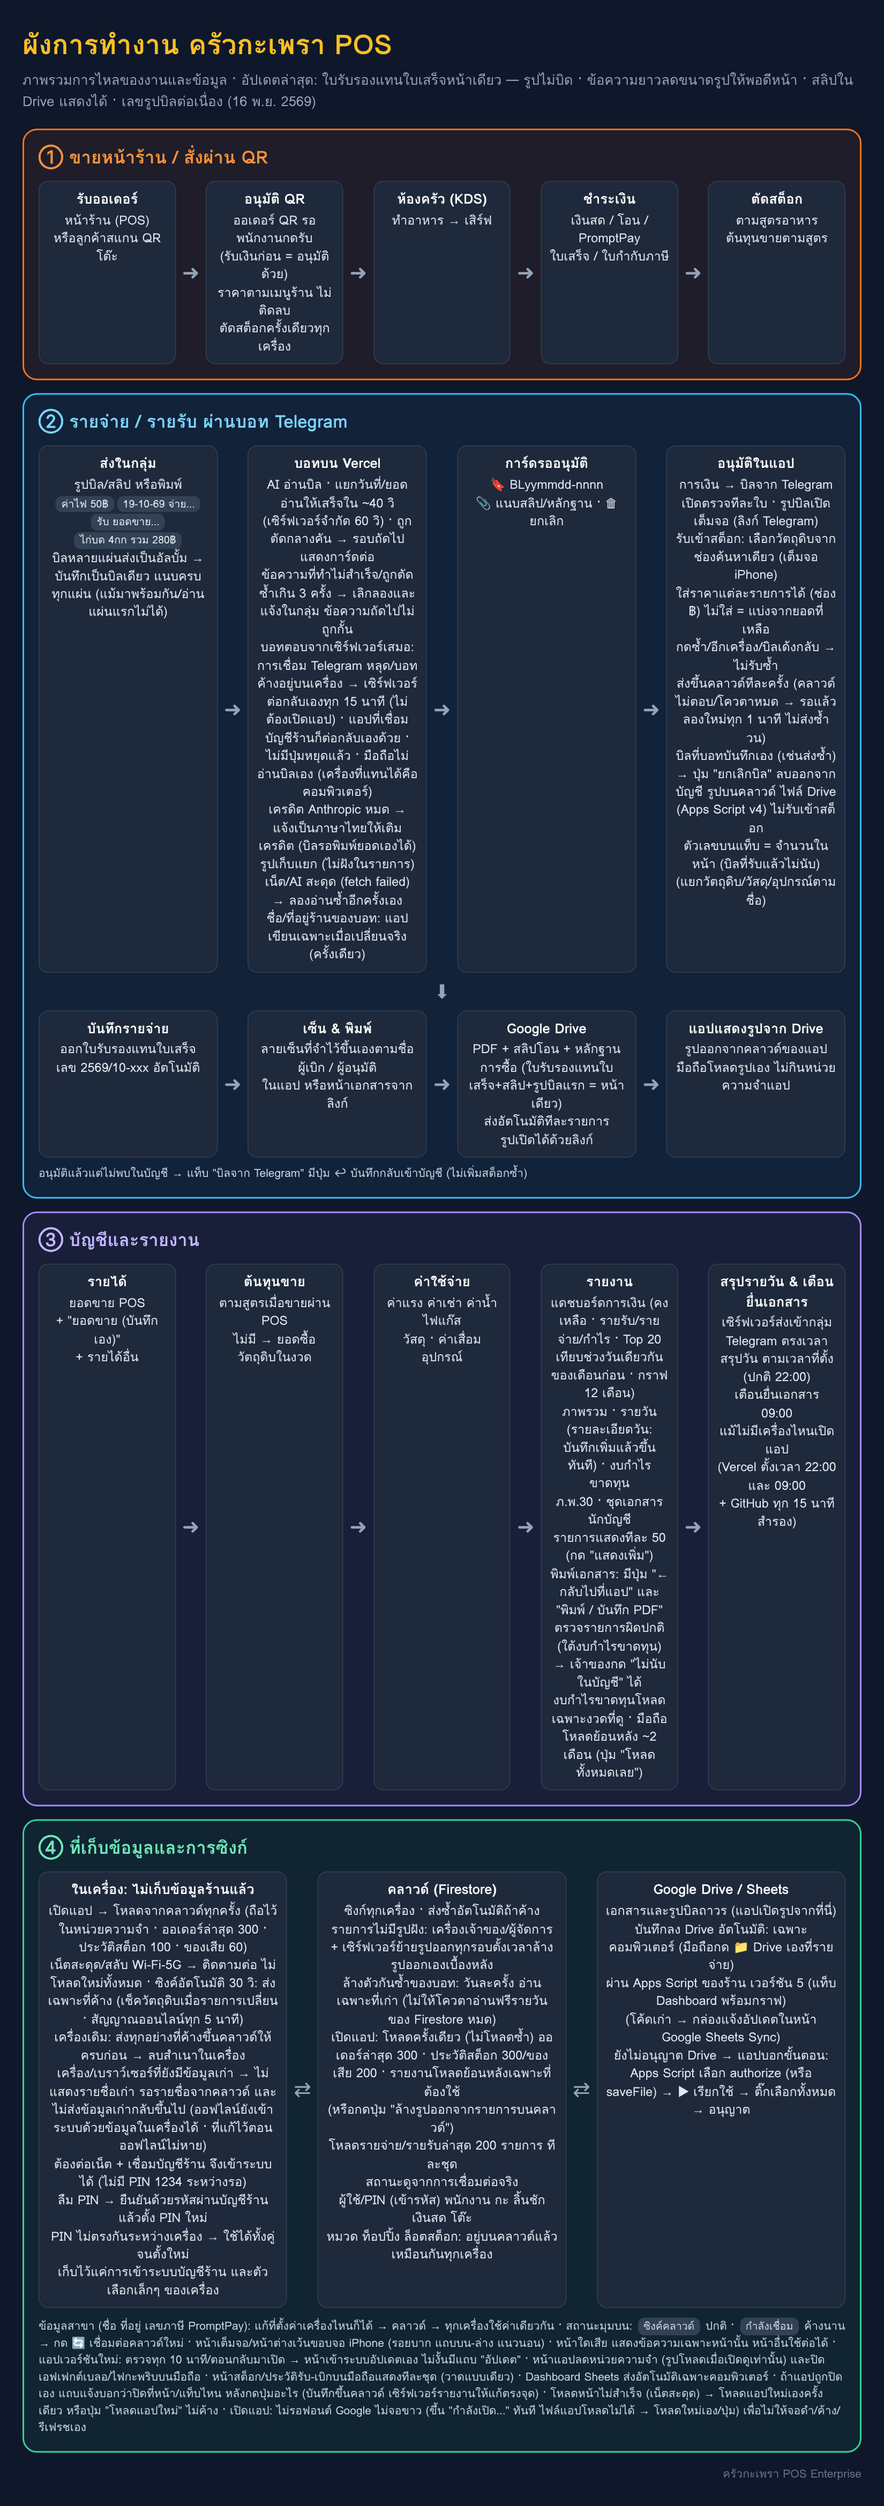
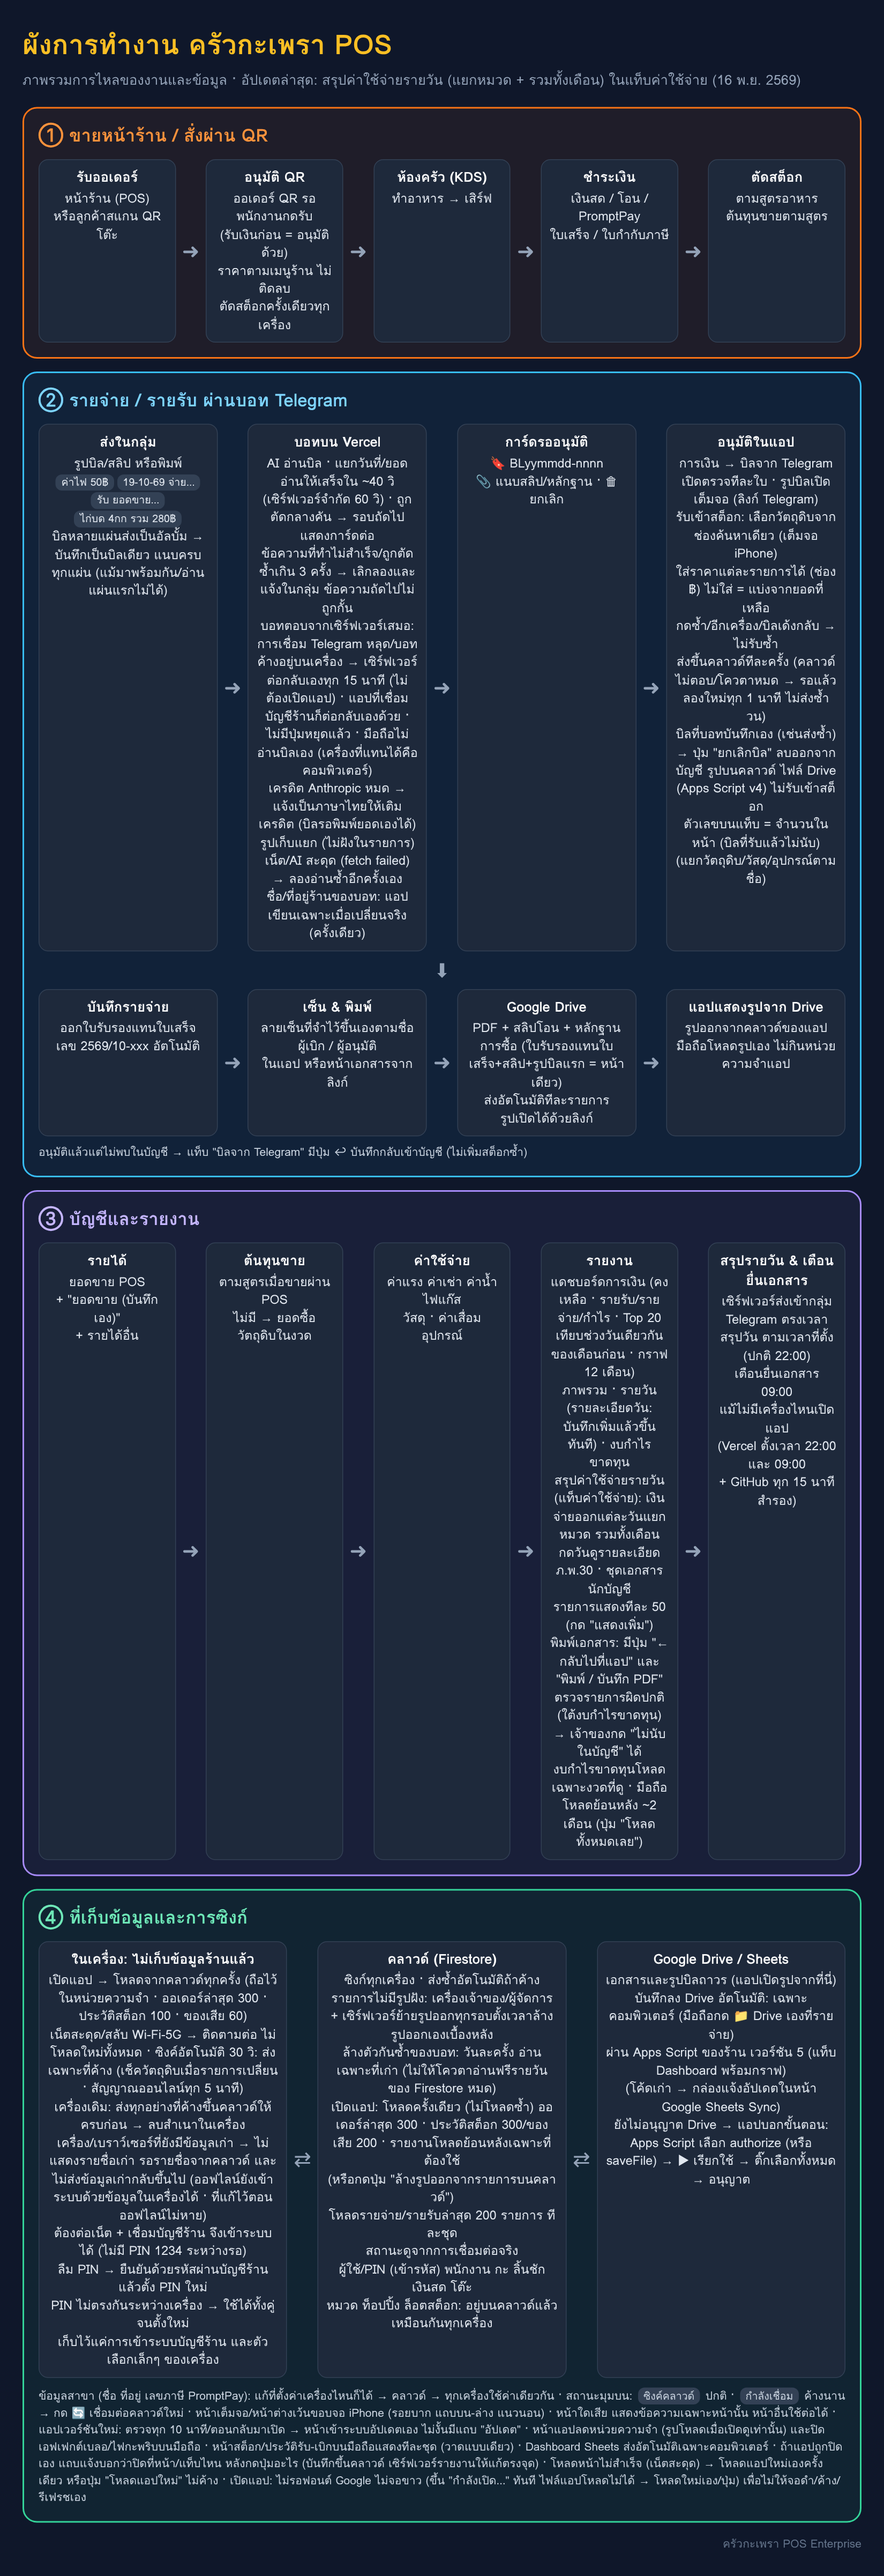
Daily expense summary in the expenses tab
Every day of the month with an expense: what was paid out that day by
category (ingredients and equipment included), its number of entries and
total, and the month's totals; a day opens its detail. The expense book's
header showed a fixed old tax ID: it shows the shop's own now.

Claude-Session: https://claude.ai/code/session_01Gq3UvYW4wv3hsVCXoh5wxy

diff --git a/docs/workflow/flow.html b/docs/workflow/flow.html
@@ -17,7 +17,7 @@ h1{margin:0 0 4px;font-size:34px;color:#fbbf24}.sub{color:#94a3b8;font-size:17px
 .foot{color:#64748b;font-size:14px;margin-top:6px;text-align:right}
 </style></head><body>
 <h1>ผังการทำงาน ครัวกะเพรา POS</h1>
-<div class="sub">ภาพรวมการไหลของงานและข้อมูล · อัปเดตล่าสุด: ใบรับรองแทนใบเสร็จหน้าเดียว — รูปไม่บิด · ข้อความยาวลดขนาดรูปให้พอดีหน้า · สลิปใน Drive แสดงได้ · เลขรูปบิลต่อเนื่อง (16 พ.ย. 2569)</div>
+<div class="sub">ภาพรวมการไหลของงานและข้อมูล · อัปเดตล่าสุด: สรุปค่าใช้จ่ายรายวัน (แยกหมวด + รวมทั้งเดือน) ในแท็บค่าใช้จ่าย (16 พ.ย. 2569)</div>
 
 <div class="lane pos"><h2>① ขายหน้าร้าน / สั่งผ่าน QR</h2>
 <div class="row">
@@ -50,7 +50,7 @@ h1{margin:0 0 4px;font-size:34px;color:#fbbf24}.sub{color:#94a3b8;font-size:17px
 <div class="box"><b>รายได้</b>ยอดขาย POS<br>+ "ยอดขาย (บันทึกเอง)"<br>+ รายได้อื่น</div><div class="ar">➜</div>
 <div class="box"><b>ต้นทุนขาย</b>ตามสูตรเมื่อขายผ่าน POS<br>ไม่มี → ยอดซื้อวัตถุดิบในงวด</div><div class="ar">➜</div>
 <div class="box"><b>ค่าใช้จ่าย</b>ค่าแรง ค่าเช่า ค่าน้ำไฟแก๊ส<br>วัสดุ · ค่าเสื่อมอุปกรณ์</div><div class="ar">➜</div>
-<div class="box"><b>รายงาน</b>แดชบอร์ดการเงิน (คงเหลือ · รายรับ/รายจ่าย/กำไร · Top 20 เทียบช่วงวันเดียวกันของเดือนก่อน · กราฟ 12 เดือน)<br>ภาพรวม · รายวัน (รายละเอียดวัน: บันทึกเพิ่มแล้วขึ้นทันที) · งบกำไรขาดทุน<br>ภ.พ.30 · ชุดเอกสารนักบัญชี<br>รายการแสดงทีละ 50 (กด "แสดงเพิ่ม")<br>พิมพ์เอกสาร: มีปุ่ม "← กลับไปที่แอป" และ "พิมพ์ / บันทึก PDF"<br>ตรวจรายการผิดปกติ (ใต้งบกำไรขาดทุน)<br>→ เจ้าของกด "ไม่นับในบัญชี" ได้<br>งบกำไรขาดทุนโหลดเฉพาะงวดที่ดู · มือถือโหลดย้อนหลัง ~2 เดือน (ปุ่ม "โหลดทั้งหมดเลย")</div><div class="ar">➜</div>
+<div class="box"><b>รายงาน</b>แดชบอร์ดการเงิน (คงเหลือ · รายรับ/รายจ่าย/กำไร · Top 20 เทียบช่วงวันเดียวกันของเดือนก่อน · กราฟ 12 เดือน)<br>ภาพรวม · รายวัน (รายละเอียดวัน: บันทึกเพิ่มแล้วขึ้นทันที) · งบกำไรขาดทุน<br>สรุปค่าใช้จ่ายรายวัน (แท็บค่าใช้จ่าย): เงินจ่ายออกแต่ละวันแยกหมวด รวมทั้งเดือน กดวันดูรายละเอียด<br>ภ.พ.30 · ชุดเอกสารนักบัญชี<br>รายการแสดงทีละ 50 (กด "แสดงเพิ่ม")<br>พิมพ์เอกสาร: มีปุ่ม "← กลับไปที่แอป" และ "พิมพ์ / บันทึก PDF"<br>ตรวจรายการผิดปกติ (ใต้งบกำไรขาดทุน)<br>→ เจ้าของกด "ไม่นับในบัญชี" ได้<br>งบกำไรขาดทุนโหลดเฉพาะงวดที่ดู · มือถือโหลดย้อนหลัง ~2 เดือน (ปุ่ม "โหลดทั้งหมดเลย")</div><div class="ar">➜</div>
 <div class="box"><b>สรุปรายวัน &amp; เตือนยื่นเอกสาร</b>เซิร์ฟเวอร์ส่งเข้ากลุ่ม Telegram ตรงเวลา<br>สรุปวัน ตามเวลาที่ตั้ง (ปกติ 22:00)<br>เตือนยื่นเอกสาร 09:00<br>แม้ไม่มีเครื่องไหนเปิดแอป<br>(Vercel ตั้งเวลา 22:00 และ 09:00<br>+ GitHub ทุก 15 นาที สำรอง)</div>
 </div></div>
 

diff --git a/src/components/accounting/DailyExpenseSummary.tsx b/src/components/accounting/DailyExpenseSummary.tsx
@@ -1,0 +1,73 @@
+import React, { useMemo } from 'react';
+import { CalendarDays } from 'lucide-react';
+import type { Expense, ExpenseCategory } from '../../types';
+import { money } from '../../utils/accounting';
+import { dailyExpenseSummary } from '../../utils/dailyExpenses';
+
+/**
+ * สรุปค่าใช้จ่ายรายวัน: every day of the month with an expense, the money paid out that day by
+ * category (ingredients and equipment included: what was actually paid), and the month's total.
+ * A day opens its full detail.
+ */
+export const DailyExpenseSummary: React.FC<{
+  expenses: Expense[];
+  month: string;
+  labels: Record<ExpenseCategory, string>;
+  onOpenDay: (date: string) => void;
+}> = ({ expenses, month, labels, onOpenDay }) => {
+  const s = useMemo(() => dailyExpenseSummary(expenses), [expenses]);
+  const dayLabel = (d: string) => new Date(`${d}T00:00:00`).toLocaleDateString('th-TH', { weekday: 'short', day: 'numeric', month: 'short' });
+  return (
+    <div className="bg-slate-900 border border-slate-800 rounded-2xl p-4 space-y-3">
+      <div className="flex items-center justify-between gap-2">
+        <h3 className="font-bold text-slate-100 text-sm flex items-center gap-2">
+          <CalendarDays className="w-4 h-4 text-rose-400" /> สรุปค่าใช้จ่ายรายวัน ({month})
+        </h3>
+        <span className="font-mono font-bold text-rose-300 text-sm">฿{money(s.total)}</span>
+      </div>
+      <p className="text-[11px] text-slate-500">เงินที่จ่ายออกจริงแต่ละวัน รวมซื้อวัตถุดิบและอุปกรณ์ · กดวันเพื่อดูรายละเอียด</p>
+      {s.days.length === 0 ? (
+        <div className="p-3 rounded-xl bg-slate-950 text-center text-xs text-slate-500">ยังไม่มีค่าใช้จ่ายในเดือนนี้</div>
+      ) : (
+        <div className="overflow-x-auto -mx-1 px-1">
+          <table className="w-full text-xs min-w-[520px]">
+            <thead>
+              <tr className="text-slate-400 border-b border-slate-800">
+                <th className="text-left py-2 pr-2 font-semibold">วันที่</th>
+                {s.categories.map(c => (
+                  <th key={c} className="text-right py-2 px-2 font-semibold whitespace-nowrap">{labels[c] || c}</th>
+                ))}
+                <th className="text-right py-2 pl-2 font-semibold">รวม</th>
+              </tr>
+            </thead>
+            <tbody>
+              {s.days.map(d => (
+                <tr key={d.date} className="border-b border-slate-800/60">
+                  <td className="py-2 pr-2">
+                    <button type="button" onClick={() => onOpenDay(d.date)} className="text-left text-sky-300 underline-offset-2 hover:underline min-h-[36px]">
+                      {dayLabel(d.date)}
+                      <span className="block text-[10px] text-slate-500">{d.count} รายการ</span>
+                    </button>
+                  </td>
+                  {s.categories.map(c => (
+                    <td key={c} className="text-right py-2 px-2 font-mono text-slate-300">{d.byCategory[c] ? money(d.byCategory[c]) : '-'}</td>
+                  ))}
+                  <td className="text-right py-2 pl-2 font-mono font-bold text-rose-300">{money(d.total)}</td>
+                </tr>
+              ))}
+            </tbody>
+            <tfoot>
+              <tr className="font-bold">
+                <td className="py-2 pr-2 text-slate-200">รวมทั้งเดือน</td>
+                {s.categories.map(c => (
+                  <td key={c} className="text-right py-2 px-2 font-mono text-slate-200">{money(s.byCategory[c] || 0)}</td>
+                ))}
+                <td className="text-right py-2 pl-2 font-mono text-rose-300">{money(s.total)}</td>
+              </tr>
+            </tfoot>
+          </table>
+        </div>
+      )}
+    </div>
+  );
+};

diff --git a/src/components/accounting/AccountingView.tsx b/src/components/accounting/AccountingView.tsx
@@ -2,6 +2,9 @@ import React, { useState, useMemo, useRef, useEffect } from 'react';
 import { splitBillCost } from '../../utils/stockIntake';
 import { LedgerBooks, LedgerTab } from './LedgerBooks';
 import { HistoryHeldNotice } from '../common/HistoryHeldNotice';
+import { DailyExpenseSummary } from './DailyExpenseSummary';
+import { sellerInfo } from '../../utils/seller';
+import { formatThaiId } from '../../utils/withholding';
 import { setRunDetail } from '../../utils/bootGuard';
 import { profitAndLoss, type PaidFrom } from '../../utils/ledger';
 import { useLedger } from '../../hooks/useLedger';
@@ -2820,6 +2823,17 @@ export const AccountingView: React.FC = () => {
               </div>
             )}
 
+            {/* Money paid out each day of the month, by category */}
+            <DailyExpenseSummary
+              expenses={selectedBranchExpenses}
+              month={selectedMonth}
+              labels={categoryLabels}
+              onOpenDay={date => {
+                setSelectedDetailDate(date);
+                setIsDayDetailModalOpen(true);
+              }}
+            />
+
             {/* Formal Report Header Box */}
             <div className="bg-slate-900 border border-slate-800 rounded-2xl p-4 sm:p-5 shadow-xl space-y-4">
               <div className="flex flex-col md:flex-row md:items-center justify-between gap-3 border-b border-slate-800 pb-3.5">
@@ -2835,7 +2849,7 @@ export const AccountingView: React.FC = () => {
                     <span>รายงานสรุปสมุดบัญชีรายจ่าย & ภาษีซื้อประจำเดือน ({selectedMonth})</span>
                   </h2>
                   <p className="text-xs text-slate-400">
-                    เลขประจำตัวผู้เสียภาษี: 0-1055-66012-99-0 | รอบบัญชี: {selectedMonth}
+                    เลขประจำตัวผู้เสียภาษี: {formatThaiId(sellerInfo(settings, currentBranch).taxId || '') || '-'} | รอบบัญชี: {selectedMonth}
                   </p>
                 </div>
 

diff --git a/src/utils/dailyExpenses.ts b/src/utils/dailyExpenses.ts
@@ -1,0 +1,46 @@
+import type { Expense, ExpenseCategory } from '../types';
+import { round2 } from './accounting';
+
+export interface DailyExpenseDay {
+  date: string;
+  count: number;
+  total: number;
+  byCategory: Partial<Record<ExpenseCategory, number>>;
+}
+
+/** The order the categories are shown in (only those used appear) */
+const ORDER: ExpenseCategory[] = ['raw_material', 'supplies', 'salary', 'rent', 'utilities', 'equipment', 'marketing', 'other'];
+
+/** Money paid out each day (the amount paid, VAT included) by category, newest day first */
+export function dailyExpenseSummary(expenses: Expense[]): {
+  days: DailyExpenseDay[];
+  categories: ExpenseCategory[];
+  byCategory: Partial<Record<ExpenseCategory, number>>;
+  total: number;
+} {
+  const byDay = new Map<string, DailyExpenseDay>();
+  const byCategory: Partial<Record<ExpenseCategory, number>> = {};
+  let total = 0;
+  for (const e of expenses) {
+    const date = (e.date || '').slice(0, 10);
+    if (!/^\d{4}-\d{2}-\d{2}$/.test(date)) continue;
+    const amount = Number(e.amount) || 0;
+    const cat = (ORDER.includes(e.category) ? e.category : 'other') as ExpenseCategory;
+    const day = byDay.get(date) || { date, count: 0, total: 0, byCategory: {} };
+    day.count++;
+    day.total += amount;
+    day.byCategory[cat] = (day.byCategory[cat] || 0) + amount;
+    byDay.set(date, day);
+    byCategory[cat] = (byCategory[cat] || 0) + amount;
+    total += amount;
+  }
+  const days = [...byDay.values()]
+    .map(d => ({ ...d, total: round2(d.total), byCategory: Object.fromEntries(Object.entries(d.byCategory).map(([k, v]) => [k, round2(v || 0)])) }))
+    .sort((a, b) => b.date.localeCompare(a.date));
+  return {
+    days,
+    categories: ORDER.filter(c => byCategory[c]),
+    byCategory: Object.fromEntries(Object.entries(byCategory).map(([k, v]) => [k, round2(v || 0)])),
+    total: round2(total)
+  };
+}

diff --git a/src/utils/__tests__/dailyExpenses.test.ts b/src/utils/__tests__/dailyExpenses.test.ts
@@ -1,0 +1,14 @@
+import { describe, expect, it } from 'vitest';
+import { dailyExpenseSummary } from '../dailyExpenses';
+
+const e = (date: string, category: any, amount: number) => ({ id: `${date}-${amount}`, date, category, amount, title: 'x' }) as any;
+
+describe('daily expense summary', () => {
+  it('adds up each day by category, newest first, with the month total', () => {
+    const s = dailyExpenseSummary([e('2026-11-15', 'raw_material', 509), e('2026-11-15', 'supplies', 1207), e('2026-11-15', 'raw_material', 350), e('2026-11-16', 'salary', 400.5), e('2026-11-16', 'rent', 3000)]);
+    expect(s.days.map(d => d.date)).toEqual(['2026-11-16', '2026-11-15']);
+    expect(s.days[1]).toMatchObject({ count: 3, total: 2066, byCategory: { raw_material: 859, supplies: 1207 } });
+    expect(s.categories).toEqual(['raw_material', 'supplies', 'salary', 'rent']);
+    expect(s.total).toBe(5466.5);
+  });
+});

diff --git a/src/components/settings/SettingsView.tsx b/src/components/settings/SettingsView.tsx
@@ -2790,7 +2790,7 @@ export const SettingsView: React.FC = () => {
                       <div>{receiptHeader || settings.shopName}</div>
                       {receiptShowTaxId && (
                         <div className="text-[9px] text-slate-600 font-normal mt-0.5">
-                          เลขภาษี: {taxId || settings.shopTaxId || '0105562089123'}
+                          เลขภาษี: {taxId || settings.shopTaxId || '-'}
                         </div>
                       )}
                     </div>
